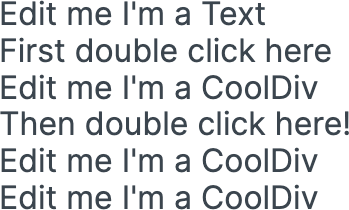
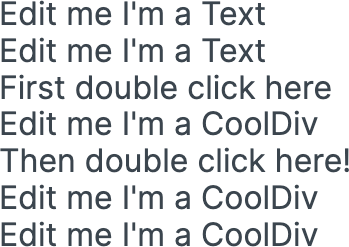
[ecu] Edit text on component App

diff --git a/app/src/App.tsx b/app/src/App.tsx
@@ -39,7 +39,7 @@ The app, splendid!
 function App(props: AppPropsType) {
   return (
     <>
-      <Text data-ecu="hxtLeUVgve:0">Edit me I'm a Text</Text>
+      <Text data-ecu="hxtLeUVgve:0">First double click here</Text>
       <Text data-ecu="hxtLeUVgve:1">Edit me I'm a Text</Text>
       <Text data-ecu="hxtLeUVgve:2">First double click here</Text>
       <CoolDiv />
